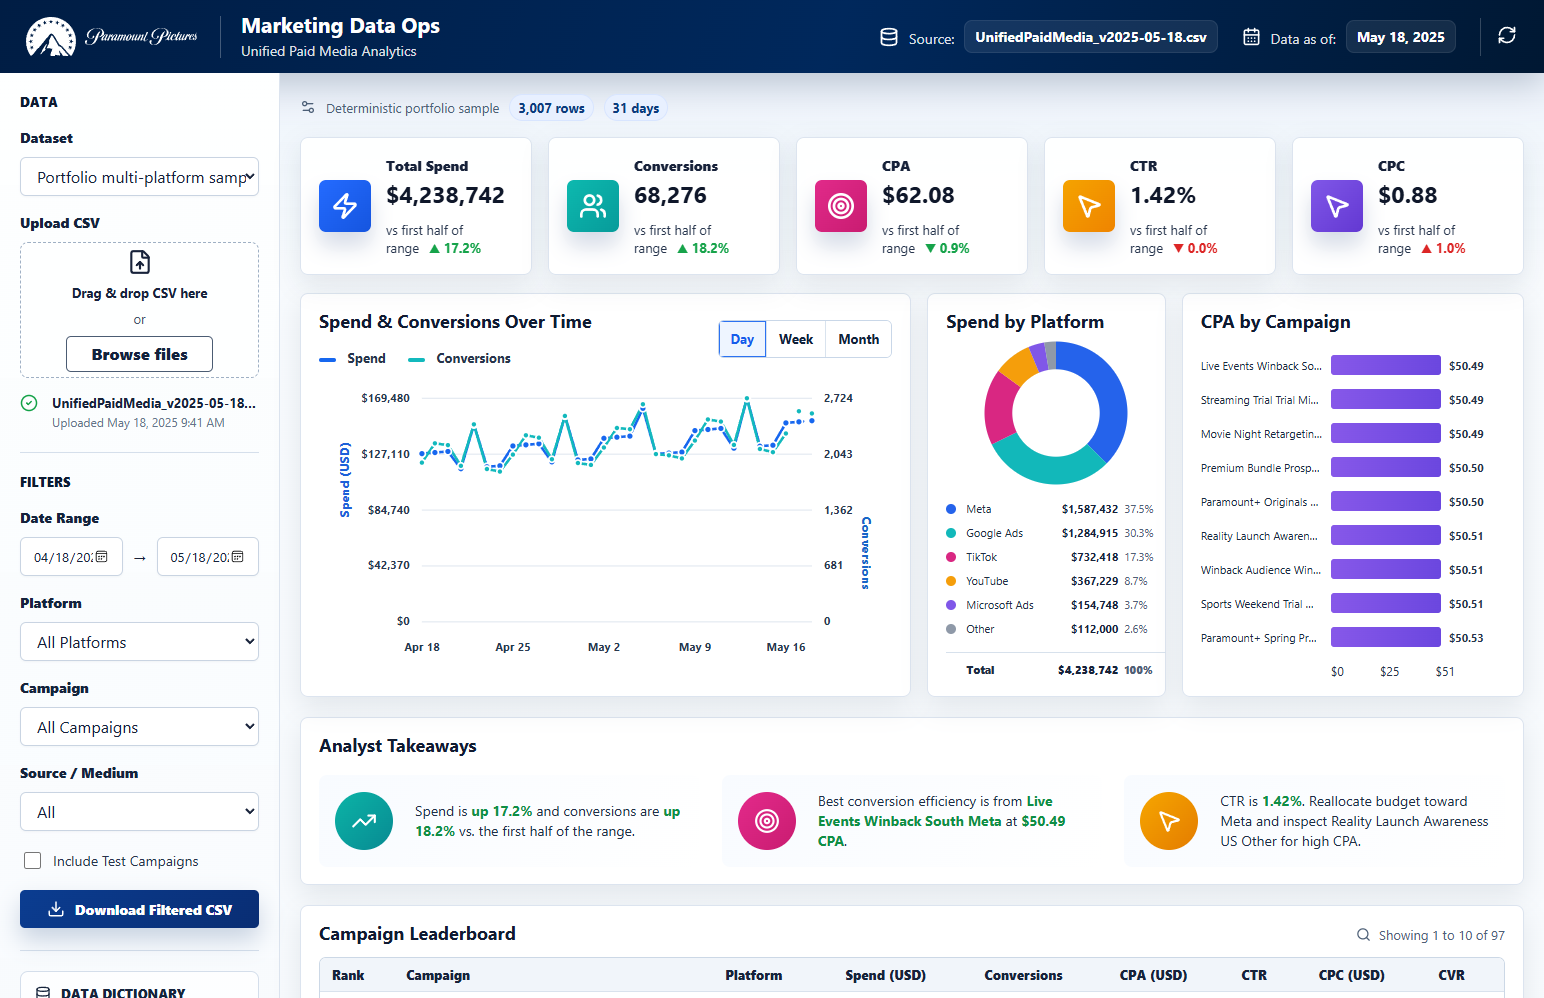
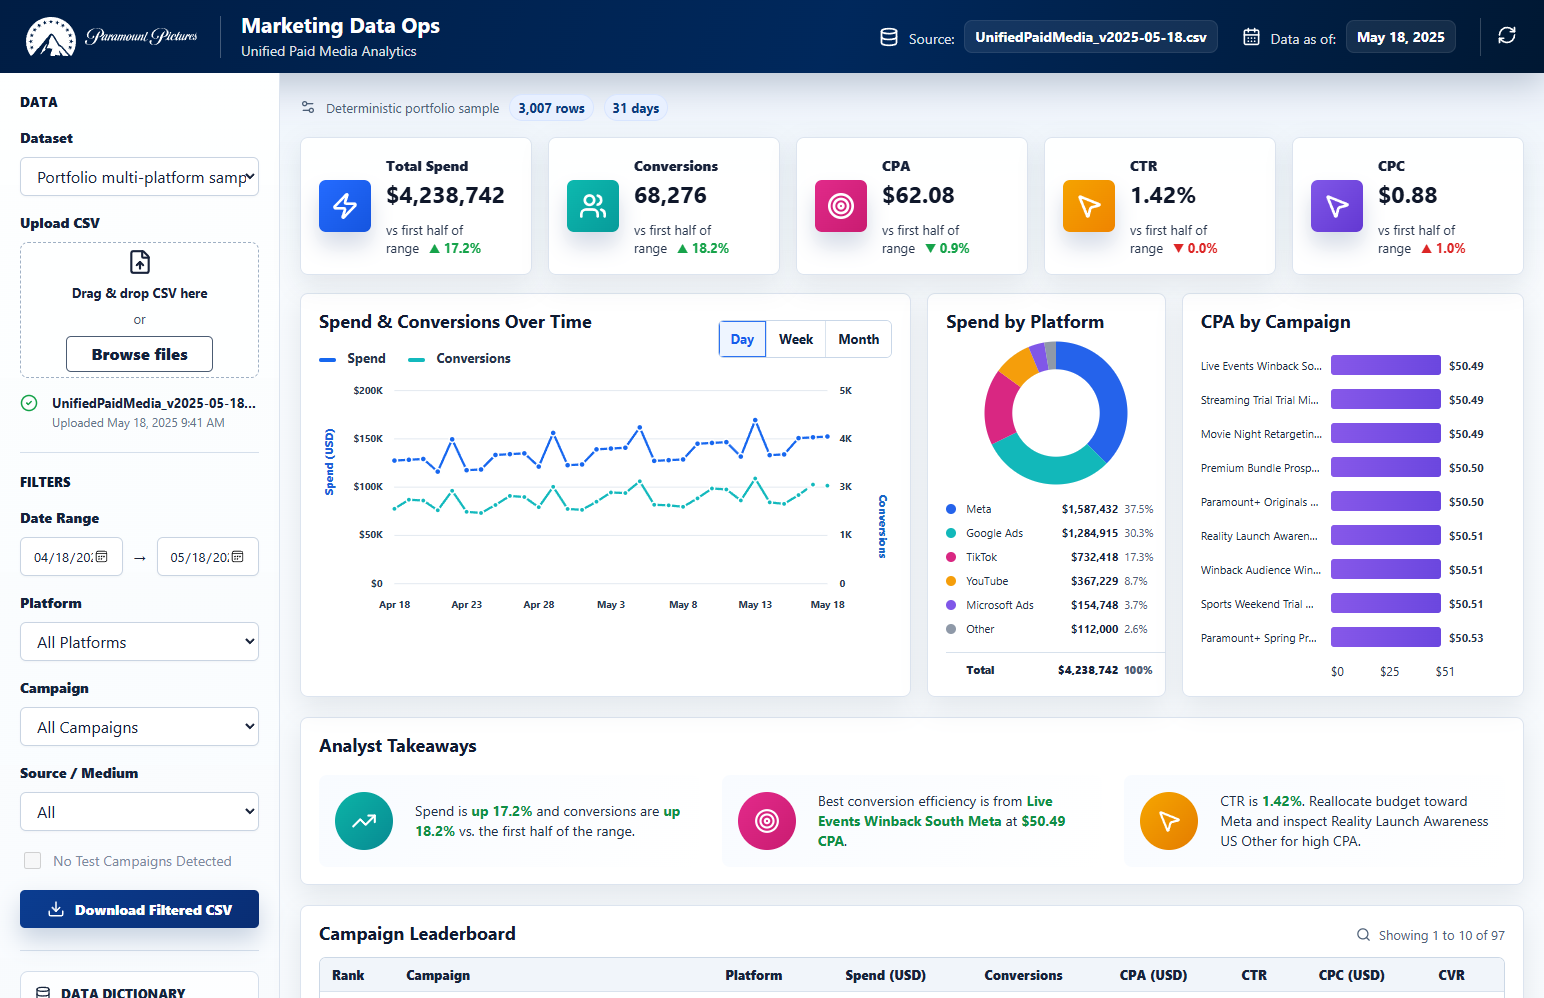
Tighten dashboard chart and data controls

diff --git a/src/App.jsx b/src/App.jsx
@@ -65,7 +65,34 @@ const DEFAULT_FILTERS = Object.freeze({
 
 const CHART_GRANULARITIES = ["day", "week", "month"];
 
-const MEDIUM_OPTIONS = ["Paid Search", "Paid Social", "Paid Video", "Display"];
+const MEDIUM_LABELS = {
+  cpc: "Paid Search",
+  paid_search: "Paid Search",
+  search: "Paid Search",
+  paid_social: "Paid Social",
+  social: "Paid Social",
+  paid_video: "Paid Video",
+  video: "Paid Video",
+  display: "Display",
+  uploaded: "Uploaded",
+};
+
+const SOURCE_MEDIUM_LABELS = {
+  google_ads: "Paid Search",
+  "Google Ads": "Paid Search",
+  meta: "Paid Social",
+  Meta: "Paid Social",
+  microsoft_ads: "Paid Search",
+  "Microsoft Ads": "Paid Search",
+  other: "Display",
+  Other: "Display",
+  tiktok: "Paid Social",
+  TikTok: "Paid Social",
+  youtube: "Paid Video",
+  YouTube: "Paid Video",
+};
+
+const TEST_CAMPAIGN_PATTERN = /(^|[^a-z])test([^a-z]|$)/i;
 
 const CSV_HEADERS = [
   "date",
@@ -93,6 +120,18 @@ function formatCurrency(value, digits = 0) {
 
 function formatNumber(value) {
   return new Intl.NumberFormat("en-US").format(Math.round(value || 0));
+}
+
+function formatCompactNumber(value) {
+  const number = Number(value) || 0;
+  if (Math.abs(number) >= 1000) return `${Math.round(number / 1000)}K`;
+  return formatNumber(number);
+}
+
+function formatCompactCurrency(value) {
+  const number = Number(value) || 0;
+  if (Math.abs(number) >= 1000) return `$${Math.round(number / 1000)}K`;
+  return formatCurrency(number);
 }
 
 function formatPercent(value, digits = 2) {
@@ -141,6 +180,15 @@ function labelBucket(value, granularity) {
 
 function daysBetween(start, end) {
   return Math.max(1, Math.round((parseDate(end) - parseDate(start)) / 86400000) + 1);
+}
+
+function niceAxisMax(value) {
+  const number = Number(value) || 1;
+  const exponent = Math.floor(Math.log10(number));
+  const base = 10 ** exponent;
+  const normalized = number / base;
+  const multiplier = normalized <= 1 ? 1 : normalized <= 2 ? 2 : normalized <= 5 ? 5 : 10;
+  return multiplier * base;
 }
 
 function summarize(rows) {
@@ -236,8 +284,15 @@ function normalizeRecords(records, dataset = "uploaded") {
         Number(record.conversions ?? record.approved_conversion ?? record.Total_Conversion ?? record.total_conversion) || 0;
       const source = record.source || record.source_label || "uploaded";
       const sourceLabel = record.source_label || record.platform || record.source || "Uploaded";
-      const medium = record.medium || "uploaded";
-      const mediumLabel = record.medium_label || record.medium || "Uploaded";
+      const rawMedium = record.medium || record.medium_label || "";
+      const mediumKey = String(rawMedium).trim().toLowerCase();
+      const sourceMediumLabel = SOURCE_MEDIUM_LABELS[source] || SOURCE_MEDIUM_LABELS[sourceLabel] || "";
+      const mediumLabel =
+        record.medium_label ||
+        (rawMedium ? MEDIUM_LABELS[mediumKey] || rawMedium : "") ||
+        sourceMediumLabel ||
+        "Uploaded";
+      const medium = rawMedium || mediumLabel.toLowerCase().replace(/\s+/g, "_");
       const campaignId = record.campaign_id || record.campaign || record.fb_campaign_id || `UP-${index + 1}`;
       const campaignName = record.campaign_name || record.campaign || record.campaign_id || `Uploaded Campaign ${index + 1}`;
 
@@ -290,6 +345,14 @@ function bucketDate(dateValue, granularity) {
     return toIsoDate(date);
   }
   return dateValue;
+}
+
+function getAvailableGranularities(rows) {
+  if (!rows.length) return ["day"];
+  return CHART_GRANULARITIES.filter((item) => {
+    if (item === "day") return true;
+    return new Set(rows.map((row) => bucketDate(row.date, item))).size > 1;
+  });
 }
 
 function buildTimeSeries(rows, granularity) {
@@ -352,13 +415,13 @@ const KpiCard = memo(function KpiCard({ accent, delta, iconKey, label, value, su
 });
 
 const LineComboChart = memo(function LineComboChart({ data, granularity }) {
-  const width = 620;
-  const height = 330;
-  const pad = { top: 28, right: 72, bottom: 44, left: 98 };
+  const width = 760;
+  const height = 320;
+  const pad = { top: 22, right: 86, bottom: 42, left: 100 };
   const innerW = width - pad.left - pad.right;
   const innerH = height - pad.top - pad.bottom;
-  const maxSpend = Math.max(...data.map((day) => day.spend), 1);
-  const maxConversions = Math.max(...data.map((day) => day.conversions), 1);
+  const maxSpend = niceAxisMax(Math.max(...data.map((day) => day.spend), 1));
+  const maxConversions = niceAxisMax(Math.max(...data.map((day) => day.conversions), 1));
   const x = (index) => pad.left + (index / Math.max(1, data.length - 1)) * innerW;
   const ySpend = (value) => pad.top + innerH - (value / maxSpend) * innerH;
   const yConversions = (value) => pad.top + innerH - (value / maxConversions) * innerH;
@@ -366,32 +429,33 @@ const LineComboChart = memo(function LineComboChart({ data, granularity }) {
   const conversionPoints = data
     .map((day, index) => `${x(index)},${yConversions(day.conversions)}`)
     .join(" ");
-  const labels = data.filter((_, index) => index % Math.ceil(data.length / 5) === 0);
+  const labelStep = Math.max(1, Math.ceil(data.length / 7));
+  const labels = data.filter((_, index) => index % labelStep === 0 || index === data.length - 1);
 
   return (
-    <svg className="trend-chart" viewBox={`0 0 ${width} ${height}`} role="img">
+    <svg className="trend-chart" viewBox={`0 0 ${width} ${height}`} role="img" preserveAspectRatio="xMidYMid meet">
       {[0, 0.25, 0.5, 0.75, 1].map((tick) => {
         const y = pad.top + innerH - tick * innerH;
         return (
           <g key={tick}>
             <line x1={pad.left} x2={width - pad.right} y1={y} y2={y} className="grid-line" />
-            <text x={pad.left - 14} y={y + 4} textAnchor="end" className="axis-label">
-              {formatCurrency(maxSpend * tick).replace(".00", "")}
+            <text x={pad.left - 16} y={y + 4} textAnchor="end" className="axis-label">
+              {formatCompactCurrency(maxSpend * tick)}
             </text>
-            <text x={width - pad.right + 14} y={y + 4} className="axis-label">
-              {formatNumber(maxConversions * tick)}
+            <text x={width - pad.right + 16} y={y + 4} className="axis-label">
+              {formatCompactNumber(maxConversions * tick)}
             </text>
           </g>
         );
       })}
-      <text x={14} y={height / 2} className="axis-title" transform={`rotate(-90 14 ${height / 2})`}>
+      <text x={18} y={height / 2} className="axis-title" transform={`rotate(-90 18 ${height / 2})`}>
         Spend (USD)
       </text>
       <text
-        x={width - 14}
+        x={width - 18}
         y={height / 2}
         className="axis-title conversions"
-        transform={`rotate(90 ${width - 14} ${height / 2})`}
+        transform={`rotate(90 ${width - 18} ${height / 2})`}
       >
         Conversions
       </text>
@@ -636,8 +700,10 @@ const Sidebar = memo(function Sidebar({
   onDragState,
   onFilterChange,
   onUploadFile,
+  mediumOptions,
   platforms,
   setDateRange,
+  testCampaignCount,
 }) {
   const dataset = datasets[datasetId];
   return (
@@ -717,17 +783,18 @@ const Sidebar = memo(function Sidebar({
         <label className="field-label">Source / Medium</label>
         <select value={filters.medium} onChange={(event) => onFilterChange("medium", event.target.value)}>
           <option>All</option>
-          {MEDIUM_OPTIONS.map((medium) => (
+          {mediumOptions.map((medium) => (
             <option key={medium}>{medium}</option>
           ))}
         </select>
         <label className="checkbox-row">
           <input
             type="checkbox"
-            checked={filters.includeTest}
+            disabled={!testCampaignCount}
+            checked={testCampaignCount > 0 && filters.includeTest}
             onChange={(event) => onFilterChange("includeTest", event.target.checked)}
           />
-          Include Test Campaigns
+          {testCampaignCount ? `Include Test Campaigns (${formatNumber(testCampaignCount)} rows)` : "No Test Campaigns Detected"}
         </label>
         <a className="download-button" href={csvHref} download="filtered_campaign_daily.csv">
           <Download size={18} />
@@ -821,6 +888,14 @@ export default function App() {
     () => [...new Set(rows.map((row) => row.campaign_name).filter(Boolean))].sort(),
     [rows],
   );
+  const mediumOptions = useMemo(
+    () => [...new Set(rows.map((row) => row.medium_label).filter(Boolean))].sort(),
+    [rows],
+  );
+  const testCampaignCount = useMemo(
+    () => rows.filter((row) => TEST_CAMPAIGN_PATTERN.test(row.campaign_name || "")).length,
+    [rows],
+  );
 
   const filteredRows = useMemo(() => {
     return rows.filter((row) => {
@@ -829,11 +904,12 @@ export default function App() {
       if (filters.platform !== "All Platforms" && row.source_label !== filters.platform) return false;
       if (filters.campaign !== "All Campaigns" && row.campaign_name !== filters.campaign) return false;
       if (filters.medium !== "All" && row.medium_label !== filters.medium) return false;
-      if (!filters.includeTest && /test/i.test(row.campaign_name || "")) return false;
+      if (!filters.includeTest && TEST_CAMPAIGN_PATTERN.test(row.campaign_name || "")) return false;
       return true;
     });
   }, [rows, dateRange, filters]);
 
+  const availableGranularities = useMemo(() => getAvailableGranularities(filteredRows), [filteredRows]);
   const daily = useMemo(() => buildTimeSeries(filteredRows, granularity), [filteredRows, granularity]);
   const campaigns = useMemo(() => buildCampaigns(filteredRows), [filteredRows]);
   const platformSpend = useMemo(() => buildPlatforms(filteredRows), [filteredRows]);
@@ -850,6 +926,17 @@ export default function App() {
     [filteredRows],
   );
   const dataset = datasets[datasetId] ?? DATASETS.portfolio;
+
+  useEffect(() => {
+    if (filters.medium !== "All" && !mediumOptions.includes(filters.medium)) {
+      setFilters((current) => ({ ...current, medium: "All" }));
+    }
+  }, [filters.medium, mediumOptions]);
+
+  useEffect(() => {
+    if (availableGranularities.includes(granularity)) return;
+    setGranularity(availableGranularities[0] ?? "day");
+  }, [availableGranularities, granularity]);
 
   useEffect(() => {
     setPage(1);
@@ -995,8 +1082,10 @@ export default function App() {
           onDropFile={handleDropFile}
           onFilterChange={onFilterChange}
           onUploadFile={handleUploadFile}
+          mediumOptions={mediumOptions}
           platforms={platforms}
           setDateRange={setDateRange}
+          testCampaignCount={testCampaignCount}
         />
         <section className="content">
           <div className="dataset-note">
@@ -1055,7 +1144,7 @@ export default function App() {
                   </div>
                 </div>
                 <div className="segmented">
-                  {CHART_GRANULARITIES.map((item) => (
+                  {availableGranularities.map((item) => (
                     <button
                       className={granularity === item ? "active" : ""}
                       key={item}

diff --git a/src/styles.css b/src/styles.css
@@ -330,6 +330,10 @@ button:disabled {
   height: 17px;
 }
 
+.checkbox-row:has(input:disabled) {
+  color: #7c8a9e;
+}
+
 .download-button {
   height: 38px;
   display: flex;
@@ -560,8 +564,10 @@ button:disabled {
 
 .trend-chart {
   width: 100%;
-  height: 286px;
+  height: auto;
+  aspect-ratio: 760 / 320;
   margin-top: 8px;
+  display: block;
 }
 
 .grid-line {

diff --git a/README.md b/README.md
@@ -13,7 +13,8 @@ This is an independent portfolio project and is not affiliated with or endorsed 
 
 - Paramount-style paid media command center with a dark header, left filter rail, KPI cards, daily trend chart, platform donut, CPA bars, analyst takeaways, and campaign leaderboard.
 - Dataset selector that switches between the portfolio multi-platform sample and the real public Facebook ads export.
-- Interactive controls for CSV upload, drag/drop import, refresh, Day/Week/Month chart aggregation, filters, generated CSV download, pagination, rows per page, and the data dictionary disclosure.
+- Interactive controls for CSV upload, drag/drop import, refresh, Day/Week/Month chart aggregation when enough time buckets exist, filters, generated CSV download, pagination, rows per page, and the data dictionary disclosure.
+- Data-aware filter behavior: Source / Medium options are derived from loaded rows, one-bucket Month views are hidden, and the test-campaign toggle disables when no test rows are present.
 - Subtle motion polish on KPI cards, chart lines, CPA bars, hover states, drag/drop, and refresh, with reduced-motion support.
 - React optimization pass with memoized dashboard sections, stable callbacks, transition-wrapped non-urgent updates, hoisted constants, and stale dataset request protection.
 - Reproducible CSV/JSON data artifacts in `public/data`.
@@ -35,6 +36,8 @@ The real dataset is `public/data/raw_real_facebook_ads.csv`, transformed by `scr
 
 The real public CSV contains mixed row shapes where some later rows omit campaign identifiers. The transform preserves those rows as unmapped Facebook audience segments instead of inventing private campaign IDs.
 
+The real public Facebook export spans August 2017 only, so the dashboard shows Day and Week aggregation for that dataset and hides Month because it would produce a single non-trend point.
+
 Logo assets are local SVG files sourced from Wikimedia Commons:
 
 - `public/paramount-mountain-logo.svg`
@@ -55,6 +58,8 @@ Validated locally on May 6, 2026:
 
 ```bash
 npm run build
+python .tmp/verify_interactions.py
+python .tmp/verify_final_dashboard.py
 ```
 
-Additional local QA used Codex Browser Use DOM/click inspection plus Playwright screenshots for the default dashboard, real-data mode, mobile rendering, CSV upload, Day/Week/Month controls, refresh, pagination, rows-per-page, chart axis spacing, CPA panel overflow, KPI/card counts, logo assets, download link, data dictionary, leaderboard rendering, and the React optimization pass.
+Additional local QA used Codex Browser Use DOM/click inspection plus Playwright screenshots for the default dashboard, real-data mode, mobile rendering, CSV upload, Day/Week/Month controls, Month hiding on one-month data, Source / Medium filtering, disabled no-test-campaign state, refresh, pagination, rows-per-page, chart axis spacing, CPA panel overflow, KPI/card counts, logo assets, download link, data dictionary, leaderboard rendering, and the React optimization pass.
